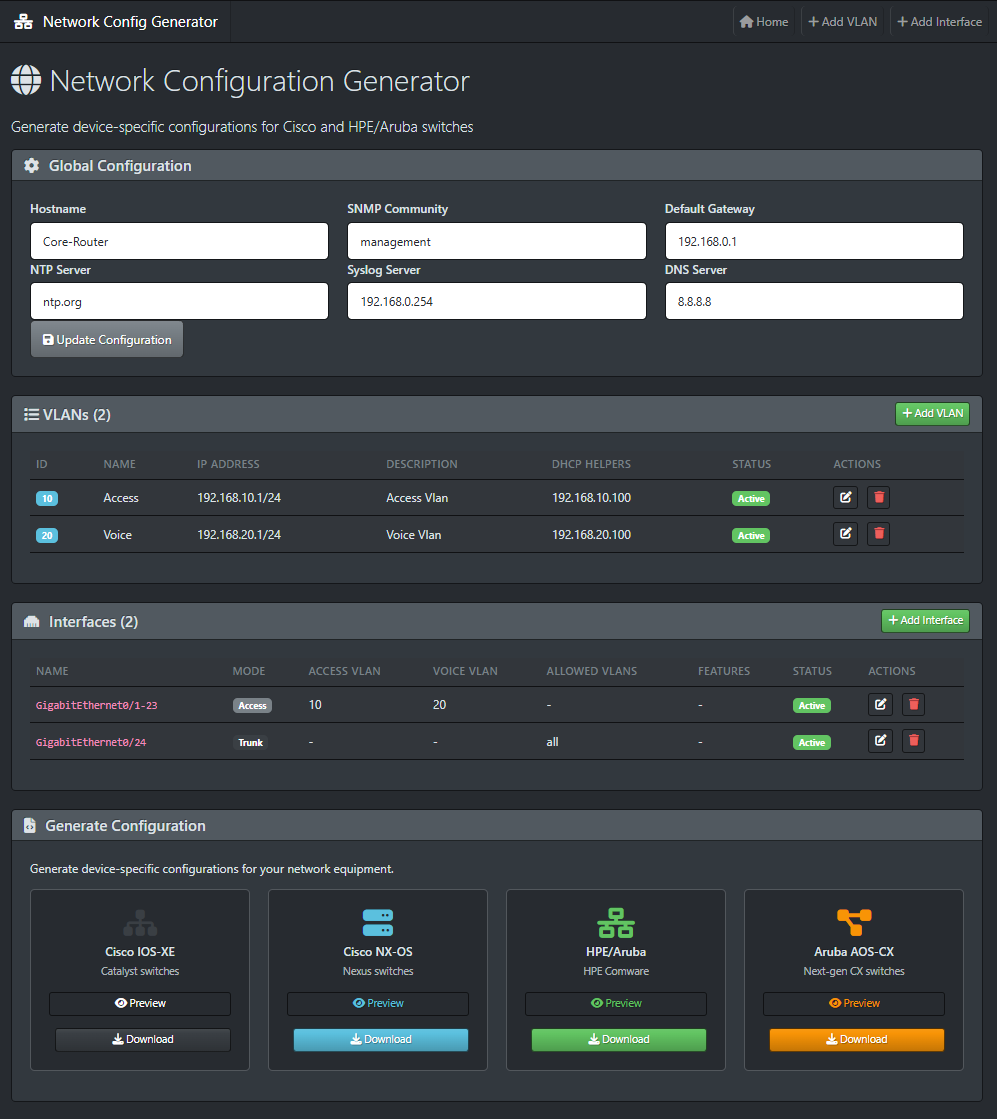
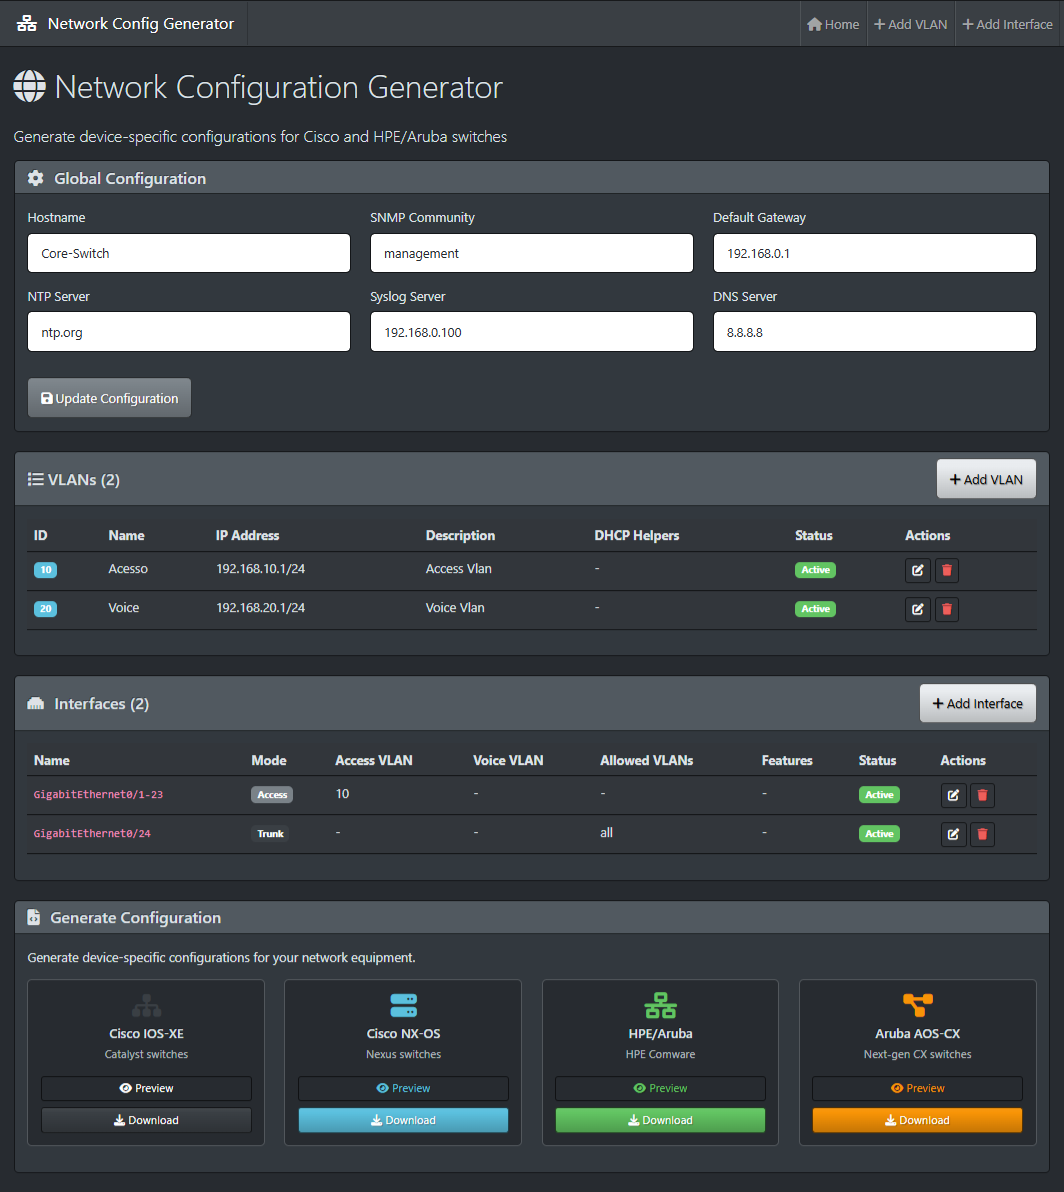
layout fixed

diff --git a/templates/index.html b/templates/index.html
@@ -366,30 +366,11 @@
                 <pre id="configPreviewContent" class="bg-dark text-light p-3 rounded" style="max-height: 500px; overflow-y: auto;"></pre>
             </div>
             <div class="modal-footer">
+                <button type="button" class="btn btn-primary" onclick="copyToClipboard(document.getElementById('configPreviewContent').innerText)">
+                <i class="fas fa-copy me-1"></i> Copy Configuration</button>
                 <button type="button" class="btn btn-secondary" data-bs-dismiss="modal">Close</button>
             </div>
         </div>
     </div>
 </div>
-{% endblock %}
-
-{% block scripts %}
-<script>
-function previewConfig(platform) {
-    fetch(`/preview_config/${platform}`)
-        .then(response => response.json())
-        .then(data => {
-            if (data.error) {
-                alert('Error: ' + data.error);
-            } else {
-                document.getElementById('configPreviewContent').textContent = data.config;
-                new bootstrap.Modal(document.getElementById('configPreviewModal')).show();
-            }
-        })
-        .catch(error => {
-            console.error('Error:', error);
-            alert('Error loading configuration preview');
-        });
-}
-</script>
 {% endblock %}

diff --git a/static/js/main.js b/static/js/main.js
@@ -35,8 +35,16 @@ document.addEventListener('DOMContentLoaded', function() {
 
     // VLAN ID validation helper
     window.validateVLAN = function(vlanId) {
-        const vlan = parseInt(vlanId);
-        return !isNaN(vlan) && vlan >= 1 && vlan <= 4094;
+    if (vlanId.toLowerCase() === 'all') return true;
+    
+    // Se contiver hífen (range) ou vírgula (lista)
+    if (vlanId.includes('-') || vlanId.includes(',')) {
+        // Validação simples de regex para permitir números, hífens e vírgulas
+        return /^[\d\s\-,]+$/.test(vlanId);
+    }
+
+    const vlan = parseInt(vlanId);
+    return !isNaN(vlan) && vlan >= 1 && vlan <= 4094;
     };
 
     // Real-time validation for IP address fields

diff --git a/templates/vlan_form.html b/templates/vlan_form.html
@@ -17,7 +17,7 @@
                     {% if edit_mode %}
                         <div class="mb-3">
                             <label class="form-label">VLAN ID</label>
-                            <input type="text" class="form-control" value="{{ vlan.id }}">
+                            <input type="text" class="form-control" name="vlan_id" value="{{ vlan.id }}">
                             <div class="form-text">Update the VLAN if necessary.</div>
                         </div>
                     {% else %}

diff --git a/app.py b/app.py
@@ -202,6 +202,8 @@ def edit_vlan(vlan_id):
         return redirect(url_for("index"))
 
     if request.method == "POST":
+        new_vlan_id = int(request.form.get("vlan_id"))
+        vlan["id"] = new_vlan_id
         vlan_name = request.form.get("vlan_name", "").strip()
         ip_address = request.form.get("ip_address", "").strip()
         prefix_length = request.form.get("prefix_length", "").strip()
